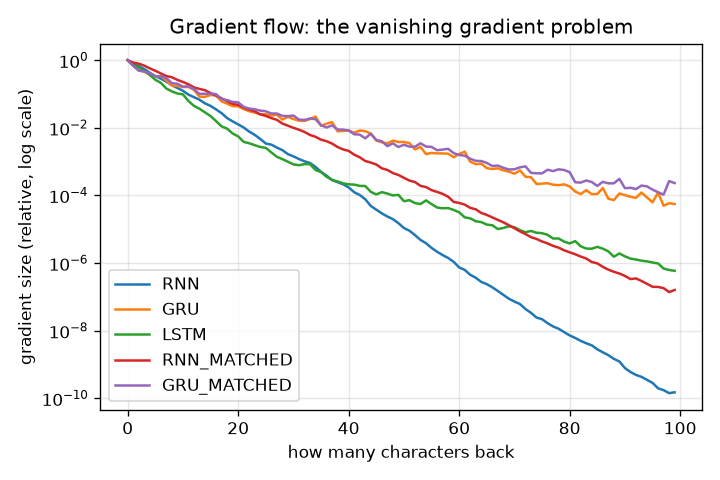
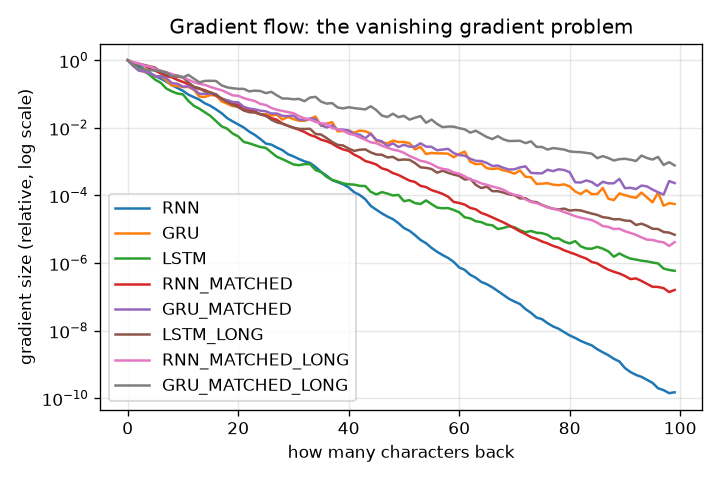
RQ1: long-budget results (LSTM catches up with GRU, RNN stuck); finalise RESULTS.md

diff --git a/RESULTS.md b/RESULTS.md
@@ -21,11 +21,11 @@ CPU using the 18,395-pair Shakespeare ↔ modern corpus. Seed 42 everywhere.
 
 **Long training budget (9,000 steps, same number of weights):**
 
-| model | best valid bpc at 3,000 steps | best valid bpc at 9,000 steps | training loss 3k → 9k |
-|---|---|---|---|
-| RNN (matched size) | 2.144 | GRU_LONG_RNN | 1.44 → 1.44 (flat) |
-| LSTM | 2.132 | **2.069** | 1.49 → 1.35 |
-| GRU (matched size) | 2.065 | GRU_LONG_GRU | GRU_LONG_TRAIN |
+| model | test bpc after 3,000 steps | test bpc after 9,000 steps | training loss 3k → 9k | gradient 50 back, 3k → 9k |
+|---|---|---|---|---|
+| RNN (matched size) | 2.230 | 2.221 (best checkpoint at step 3,750) | 1.44 → 1.48 (stuck) | 0.03 % → 0.18 % |
+| LSTM | 2.227 | **2.166** | 1.49 → 1.35 | 0.007 % → 0.12 % |
+| GRU (matched size) | **2.160** | **2.162** (no gain) | 1.36 → 1.32 | 0.32 % → 2.3 % |
 
 **Findings**
 
@@ -34,13 +34,19 @@ CPU using the 18,395-pair Shakespeare ↔ modern corpus. Seed 42 everywhere.
    from it. The GRU keeps 0.3–0.4 %, about 300× more.
 2. **Gating wins, but not in the order the textbook suggests.** With the same number of weights the GRU
    is best and learns fastest. After 3,000 steps the LSTM only ties the size-matched RNN.
-3. **The LSTM's advantage shows with more training.** With 3× the budget the size-matched RNN stops
-   improving (its *training* loss is flat, so it has hit its capacity rather than overfitting), while the
-   LSTM keeps learning and pulls ahead by 0.07 bpc. The LSTM learns more slowly than the GRU but can learn
-   more than the RNN.
-4. **Honest caveat:** the LSTM's gradient measured at 50 steps back is small too (0.007 %). The cell
-   state can carry information, but a 3,000-step model has not learned to use very long context. The
-   memory curve gains for all models are 0.35–0.44 bpc, mostly from the first ~15 characters (`rq1_memory_curve.png`).
+3. **The LSTM is a slow starter, not a weaker model** (`rq1_long_budget.png`). With 3× the budget the
+   size-matched RNN stops improving at about step 2,000 and then slowly gets worse. Its *training* loss
+   doesn't fall either, so this is a learning limit, not overfitting. The LSTM keeps improving until about
+   step 7,000 and **catches up with the GRU** (test 2.166 vs 2.162). The GRU had already reached that level
+   at 3,000 steps. In short: GRU = fast, LSTM = slow but gets there, RNN = stuck.
+4. **Gradient flow is learned, not built in.** After longer training every model passes back much more
+   gradient (the LSTM: 0.007 % → 0.12 % at 50 steps back). The gates *can* keep the signal alive, but the
+   model has to learn to keep them open. Gradient size alone doesn't decide quality, though. The long RNN
+   passes back slightly more gradient than the long LSTM but still can't use it, because without gates it
+   has no way to choose *what* to keep.
+5. **Most context benefit is short-range.** The memory curves (`rq1_memory_curve.png`) drop sharply over
+   the first ~15 characters and are roughly flat after that, for every model (gain 0.35–0.44 bpc). At
+   this size, the models mostly use word-level context.
 
 Figures: `rq1_learning_curves.png`, `rq1_long_budget.png`, `rq1_memory_curve.png`, `rq1_gradient_flow.png`.
 
@@ -167,8 +173,9 @@ The guard raises false alarms on 17.2 % of clean translations.
 
 ## Overall conclusions
 
-- **Gating matters, and you can see why:** we measured the vanishing gradient directly, and the gated
-  models both learn more and keep improving longer. In our setting the GRU is the most efficient cell.
+- **Gating matters, and you can see why:** we measured the vanishing gradient directly. Given time,
+  both gated cells reach the same quality, while the plain RNN stays stuck with the same number of weights.
+  The GRU gets there 3× faster.
 - **LSTMs are inspectable:** single cells have identifiable, causal jobs. Gates behave in interpretable
   ways (forgetting at sentence ends, writing freely, revealing little).
 - **Architecture choices are explanations:** the copy gate improves quality *and* gives a faithful

diff --git a/GUIDE.md b/GUIDE.md
@@ -90,7 +90,7 @@ For a detector that gives a score: the probability that a random *bad* example g
 
 | RQ | One-sentence claim to present | Evidence |
 |---|---|---|
-| RQ1 | "We measured the vanishing gradient directly: 50 characters back the plain RNN keeps 0.001 % of its gradient. With the same number of weights the GRU wins. The LSTM starts slower but keeps improving when trained 3× longer, while the RNN stops learning." | gradient-flow plot, long-budget plot, test bpc table (incl. size-matched models) |
+| RQ1 | "We measured the vanishing gradient directly: 50 characters back the plain RNN keeps 0.001 % of its gradient. With the same number of weights the GRU learns fastest. With 3× more training the LSTM catches up with it, while the RNN gets stuck." | gradient-flow plot, long-budget plot, test bpc table (incl. size-matched models) |
 | RQ2 | "Individual LSTM cells learn interpretable jobs, like tracking position in the line or being inside a word, and switching some of them off specifically hurts the related predictions." | correlation table, coloured-text HTML, ablation table, embedding map |
 | RQ3 | "Temperature trades correctness for diversity. Around T = 0.8 the generated text's statistics best match real Shakespeare, but the model under-uses rare archaic words." | temperature table and plot |
 | RQ4 | "The copy gate gives a free, faithful explanation: kept words have high copy probability, changed words low. Attention points at the replaced word far above chance, and confidence is roughly calibrated." | ablation table with CIs, copy-probability table, alignment %, calibration plot |
@@ -135,8 +135,9 @@ A: Run several random seeds (we have one per model), use subword units so rare n
 aren't unknown or rare, train larger models on a GPU, and collect a small human evaluation.
 
 **Q: Why does the LSTM lose to the GRU if LSTMs are "better"?**
-A: The GRU has fewer gates, so with a small budget it learns faster. Our long-budget run shows the LSTM
-is still improving at 9,000 steps while the size-matched RNN has stopped learning altogether. Which gated
+A: The GRU has fewer gates, so with a small budget it learns faster. When we trained 3× longer, the
+LSTM caught up with the GRU (test bpc 2.166 vs 2.162), while the size-matched RNN stopped improving after
+about 2,000 steps. Which gated
 cell wins depends on budget and task. Gating versus no gating is the bigger difference.
 
 **Q: Your model prefers the correct sentence 90 % of the time, but its AUROC is only 0.61. How?**

diff --git a/results/rq1_compare_cells.md b/results/rq1_compare_cells.md
@@ -12,6 +12,9 @@
 | LSTM | 256 | 328.704 | 2.132 | 2.227 | 0.362 | 9.782 | 0.007 | 3000 | 8.845 |
 | RNN_MATCHED | 542 | 328.994 | 2.144 | 2.230 | 0.395 | 22.791 | 0.033 | 3000 | 13.875 |
 | GRU_MATCHED | 300 | 328.800 | 2.065 | 2.160 | 0.438 | 16.533 | 0.316 | 3000 | 20.308 |
+| LSTM_LONG | 256 | 328.704 | 2.069 | 2.166 | 0.416 | 31.217 | 0.116 | 9000 | 46.633 |
+| RNN_MATCHED_LONG | 542 | 328.994 | 2.137 | 2.221 | 0.389 | 32.255 | 0.183 | 9000 | 36.447 |
+| GRU_MATCHED_LONG | 300 | 328.800 | 2.061 | 2.162 | 0.433 | 30.995 | 2.259 | 9000 | 26.196 |
 
 ## Samples (temperature 0.8)
 
@@ -62,4 +65,34 @@ Tis what I am before the priest.
 My friend Would a nut is chouth.
 Tis his tage?
 Well, if I is unquith the fellow or thy flatte
+```
+
+### LSTM_LONG
+```
+What will you come?
+O, let me leave her both as I can hear me, And praise when he hath the last looks to the mountain to the more ready, And either I am for my sabin yet behind, I know not my set you here, if the fortune, name, Nor the thing upon me?
+It is to be so Thus to have break there now left
+```
+
+### RNN_MATCHED_LONG
+```
+What's your graces?
+O, let me lead the gain To be caunt as mine own sallice confere me to follow you?
+Not and burial flust not in repungon their suins.
+Tus all office and heart, I ask The world, I ' th ' moint me!
+Bring you go.
+No.
+What have us go to such a weak with us.
+If with the minds, and left
+```
+
+### GRU_MATCHED_LONG
+```
+Why, why, thou know'st looked?
+Madam, I know thou canst be made her sail, which mortal tyliness and done.
+Farewell, my lord.
+This reasonows here.
+There's some power of the cause I ask him to bed.
+I had rather deep so mouth and your churth.
+Thus it barely tongue we in unlost, And tell there is the wo
 ```
